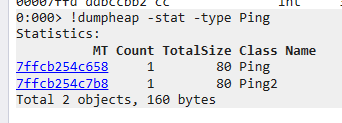
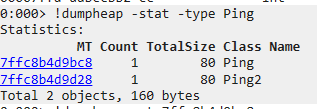
reference Ping

diff --git a/src/pages/articles/2023-10-30---Exploring-Object-Layouts/index.md b/src/pages/articles/2023-10-30---Exploring-Object-Layouts/index.md
@@ -77,15 +77,15 @@ At this point we can look for our previously-created `Ping` objects with somethi
 
 Immediately we can see that both `Ping` and `Ping2` have one instance each. Crucially, both show up as having a total size of 80 bytes. This aligns with our BenchmarkDotNet findings that no allocation reduction was realised.
 
-To investigate deeper we can click on the link for the `7ffcb254c7b8` Method Table which will execute `!dumpheap -mt 7ffcb254c7b8`. This then tell us that the memory address for that object is located at `01c0e5cc6ed0`. 
+To investigate deeper we can click on the link for the `7ffc8b4d9bc8` Method Table which will execute `!dumpheap -mt 7ffc8b4d9bc8`. This then tell us that the memory address for that object is located at `2258d00a648`. 
 
-Clicking that link then executes `!dumpobj /d 1c0e5cc6ed0` which gives us this nice overview of the object:
+Clicking that link then executes `!dumpobj /d 2258d00a648` which gives us this nice overview of the object:
 
 ```log
-0:000> !dumpobj /d 1c0e5cc6ed0
-Name:        Ping2
-MethodTable: 00007ffcb254c7b8
-EEClass:     00007ffcb2561b28
+0:000> !dumpobj /d 2258d00a648
+Name:        Ping
+MethodTable: 00007ffc8b4d9bc8
+EEClass:     00007ffc8b4e33f8
 Tracked Type: false
 Size:        80(0x50) bytes
 File:        C:\Users\jer_v\source\repos\pingsize\pingsize\bin\Release\net8.0\pingsize.dll
@@ -93,13 +93,15 @@ Fields:
               MT    Field   Offset                 Type VT     Attr            Value Name
 0000000000000000  4000019        8 ...ponentModel.ISite  0 instance 0000000000000000 _site
 0000000000000000  400001a       10 ....EventHandlerList  0 instance 0000000000000000 _events
-00007ffcb2265fa0  4000018       98        System.Object  0   static 0000000000000000 s_eventDisposed
-00007ffcb254d520  4000009       18 ...ualResetEventSlim  0 instance 000001c0e5cc6f20 _lockObject
-00007ffcb22a92d0  400000a       20          System.Void  0 instance 0000000000000000 _onPingCompletedDelegate
-00007ffcb2431f88  400000b       28        System.Byte[]  0 instance 0000000000000000 _defaultSendBuffer
-00007ffcb22a92d0  400000c       30          System.Void  0 instance 0000000000000000 _timeoutOrCancellationSource
-00007ffcb22c2158  400000d       40          System.Byte  1 instance                0 _status
-00007ffcb22a92d0  400000e       38          System.Void  0 instance 0000000000000000 PingCompleted
+00007ffc8b355fa0  4000018       98        System.Object  0   static 0000000000000000 s_eventDisposed
+00007ffc8b4daa90  4000001       18 ...ualResetEventSlim  0 instance 000002258d00a698 _lockObject
+00007ffc8b3992d0  4000002       20          System.Void  0 instance 0000000000000000 _onPingCompletedDelegate
+00007ffc8b35d068  4000003       44       System.Boolean  1 instance                0 _disposeRequested
+0000000000000000  4000004       28              SZARRAY  0 instance 0000000000000000 _defaultSendBuffer
+00007ffc8b3992d0  4000005       30          System.Void  0 instance 0000000000000000 _timeoutOrCancellationSource
+00007ffc8b35d068  4000006       45       System.Boolean  1 instance                0 _canceled
+00007ffc8b391188  4000007       40         System.Int32  1 instance                0 _status
+00007ffc8b3992d0  4000008       38          System.Void  0 instance 0000000000000000 PingCompleted
 ```
 
 Excellent! Now we see the exact layout of our fields in the object. Worth noting here that the object is 80 bytes -- in decimal. In hexadecimal, that corresponds to 0x50. This is particularly relevant because the `Offset` column specifies its values in hexadecimal as well.
